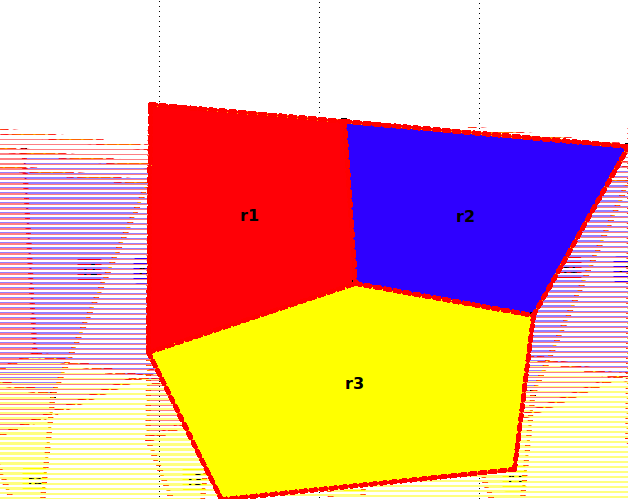
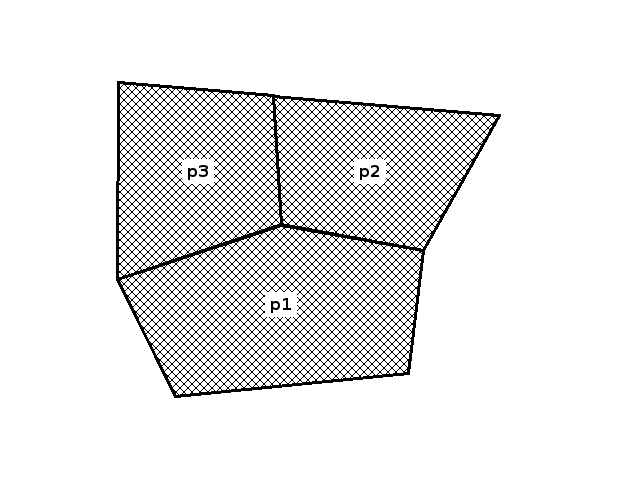
removes all references to rfi.thumb/*_simbg.png except for when using playerstage.  also improves appearance of background in playerstage

diff --git a/src/regionEditor.py b/src/regionEditor.py
@@ -859,75 +859,6 @@ class DrawingFrame(wx.Frame):
         self.drawPanel.PopupMenu(menu, mousePt)
         menu.Destroy()
 
-
-    def makeScreenshot(self, minimal=False):
-        """
-        Write out a png file with the regions overlayed on the background image.
-
-        If minimal is True, only region borders will be drawn (as dotted lines).
-        If minimal is False, the output will look like the editor window.
-
-        Returns the output filename. 
-        """
-
-        # TODO: Make minimal/full an option settable via the GUI
-
-        name, ext = os.path.splitext(os.path.basename(self.fileName))
-
-        memory = wx.MemoryDC()
-
-        # If there's a background image we'll use that size at minimum
-        if self.backgroundImage is not None:
-            x,y = self.backgroundImage.GetSize()
-        else:
-            x = None
-            y = None
-    
-        # Now let's just make sure all the regions fit.
-
-        # Make sure we have defined at least one regoin
-        if len(self.rfi.regions) == 0:
-            return None
-
-        for region in self.rfi.regions:
-            for pt in region.getPoints():
-                if x == None or pt.x > x: x = pt.x
-                if y == None or pt.y > y: y = pt.y
-
-        bitmap = wx.EmptyBitmap(x,y)
-        memory.SelectObject(bitmap)
-
-        memory.BeginDrawing()
-        if self.backgroundImage != None:
-            memory.DrawBitmap(self.backgroundImage, 0, 0, False)
-
-        if minimal:
-            memory.SetBrush(wx.TRANSPARENT_BRUSH)
-            #memory.SetLogicalFunction(wx.INVERT)
-
-            faces = []
-            for obj in self.rfi.regions:
-                for face in obj.getFaces():
-                    if (face[0], face[1]) in faces or (face[1], face[0]) in faces:
-                        continue
-                    faces.append(face)
-                    memory.SetPen(wx.Pen(wx.WHITE, 5, wx.SOLID))
-                    memory.DrawLine(face[0][0], face[0][1], face[1][0], face[1][1])
-                    memory.SetPen(wx.Pen(wx.BLACK, 3, wx.LONG_DASH))
-                    memory.DrawLine(face[0][0], face[0][1], face[1][0], face[1][1])
-        else:
-            if self.needsAdjacencyRecalc:
-                self.recalcAdjacency()
-            #self.drawRegions(memory, memory, drawAdjacencies=False)
-            self.drawRegions(memory, memory)
-
-        memory.EndDrawing()
-        memory.SelectObject(wx.NullBitmap)
-        fname = os.path.join(os.path.dirname(self.fileName),"%s_simbg.png" % name)
-        bitmap.SaveFile(fname, wx.BITMAP_TYPE_PNG)
-
-        return fname
-
     def onPaintEvent(self, event):
         """ Respond to a request to redraw the contents of our drawing panel.
         """
@@ -1579,8 +1510,6 @@ class DrawingFrame(wx.Frame):
     def saveContents(self):
         """ Save the contents of our document to disk.
         """
-
-        self.rfi.thumb = self.makeScreenshot(minimal=False)
 
         self.rfi.writeFile(self.fileName)
 

diff --git a/src/lib/regions.py b/src/lib/regions.py
@@ -110,10 +110,12 @@ else:
                             'YELLOW': (255,255,0),
                             'GREEN': (0,255,0),
                             'BLUE': (0,0,255),
-                            'PURPLE': (255,0,255)}
+                            'PURPLE': (255,0,255),
+                            'WHITE': (255,255,255),
+                            'BLACK': (0,0,0)}
 
-            if name in colorMapping:
-                self.color = colorMapping[name]
+            if name.upper() in colorMapping:
+                self.color = colorMapping[name.upper()]
             else:
                 raise NotImplementedError("Color '%s' not recognized" % name)
             
@@ -145,15 +147,12 @@ class RegionFileInterface:
             * key1 = Region object index
             * key2 = Region object index
             * values = Lists of faces connecting the two regions
-        - thumb (string): relative path of an image file that shows the regions overlayed 
-                          on the background image, made by taking a screenshot
     """
 
-    def __init__(self, background="None", regions=[], transitions=None, thumb=None):
+    def __init__(self, background="None", regions=[], transitions=None):
         self.background = background
         self.regions = regions
         self.transitions = transitions
-        self.thumb = thumb
         self.filename = None
 
     def setToDefaultName(self, region):
@@ -325,7 +324,6 @@ class RegionFileInterface:
                     "Background": "Relative path of background image file",
                     "Regions": "Name, Type, Pos X, Pos Y, Width, Height, Color R, Color G, Color B, Vertices (x1, y1, x2, y2, ...)",
                     "Transitions": "Region 1 Name, Region 2 Name, Bidirectional transition faces (face1_x1, face1_y1, face1_x2, face1_y2, face2_x1, ...)",
-                    "Thumbnail": "Relative path of image file that has region shapes overlayed on background image",
                     "CalibrationPoints": "Vertices to use for map calibration: (vertex_region_name, vertex_index)",
                     "Obstacles": "Names of regions to treat as obstacles"}    
     
@@ -361,7 +359,6 @@ class RegionFileInterface:
         data = {"Background": self.background,
                 "Regions": regionData,
                 "Transitions": transitionData,
-                "Thumbnail": os.path.basename(self.thumb),
                 "CalibrationPoints": calibPoints,
                 "Obstacles": obstacleRegions}
 
@@ -386,8 +383,6 @@ class RegionFileInterface:
             self.background = data["Background"][0]
         except KeyError:
             self.background = "None"
-
-        self.thumb = os.path.join(os.path.split(filename)[0],data["Thumbnail"][0])
 
         self.regions = []
         for region in data["Regions"]:

diff --git a/src/lib/handlers/robots/playerStage/_stage.py b/src/lib/handlers/robots/playerStage/_stage.py
@@ -9,6 +9,11 @@ Create config files for Stage and start it up (as part of a player server) in a 
 
 import textwrap, os, subprocess, time
 from numpy import *
+from copy import deepcopy
+import wx
+import regions
+reload(regions) # to use wx objects
+import mapRenderer
 
 class initHandler:
     def __init__(self, proj, init_region):
@@ -17,6 +22,8 @@ class initHandler:
 
         Otherwise, it will begin in the center of the defined initial region.
         """
+
+        self.proj = proj 
 
         ### Create Stage config files
         self.init_region = init_region
@@ -52,6 +59,35 @@ class initHandler:
         """ Returns nothing """
         return {}  # We have nothing to share
          
+    def makeBackgroundImage(self):
+        """
+        Write out a png file with the regions.
+        Returns the output filename.
+        """
+
+        # We need to have a wx.App instance to use the wx drawing stuff
+        app = wx.App()
+        wx.InitAllImageHandlers()
+
+        bitmap = wx.EmptyBitmap(640,480)
+        temp_rfi = deepcopy(self.proj.rfi)
+
+        # Set all colors to white because stage background is B/W
+        for r in temp_rfi.regions:
+            r.color.SetFromName('WHITE')
+
+        # Remove boundary
+        i = temp_rfi.indexOfRegionWithName('boundary')
+        if i >= 0: temp_rfi.regions.pop(i)
+        
+        mapRenderer.drawMap(bitmap, temp_rfi, memory=True, highlightList=[r.name for r in temp_rfi.regions])
+        fname = self.proj.getFilenamePrefix() + "_simbg.png"
+        bitmap.SaveFile(fname, wx.BITMAP_TYPE_PNG)
+
+        app.Destroy()
+
+        return fname
+
     def writeSimConfig(self, proj):
         """
         Generates .world and .cfg files for Stage.
@@ -72,8 +108,9 @@ class initHandler:
             initial_region = proj.rfi.regions[proj.rfi.indexOfRegionWithName(proj.regionMapping[initial_region.name][0])]
             startpos = proj.coordmap_map2lab(initial_region.getCenter())
 
-        # Choose an appropriate background image
-        bgFile = proj.getBackgroundImagePath()
+        # Create an appropriate background image
+
+        bgFile = self.makeBackgroundImage()
 
         ####################
         # Stage world file #

diff --git a/src/lib/project.py b/src/lib/project.py
@@ -269,13 +269,6 @@ class Project:
         """
         return os.path.join(self.project_root, self.project_basename)
 
-    def getBackgroundImagePath(self):
-        """ Returns the path of the background image with regions drawn on top, created by RegionEditor """
-        
-        # TODO: remove this and all use of bg image png
-        return self.rfi.thumb
-
-
     def importHandlers(self, all_handler_types=None):
         """
         Figure out which handlers we are going to use, based on the different configurations file settings
